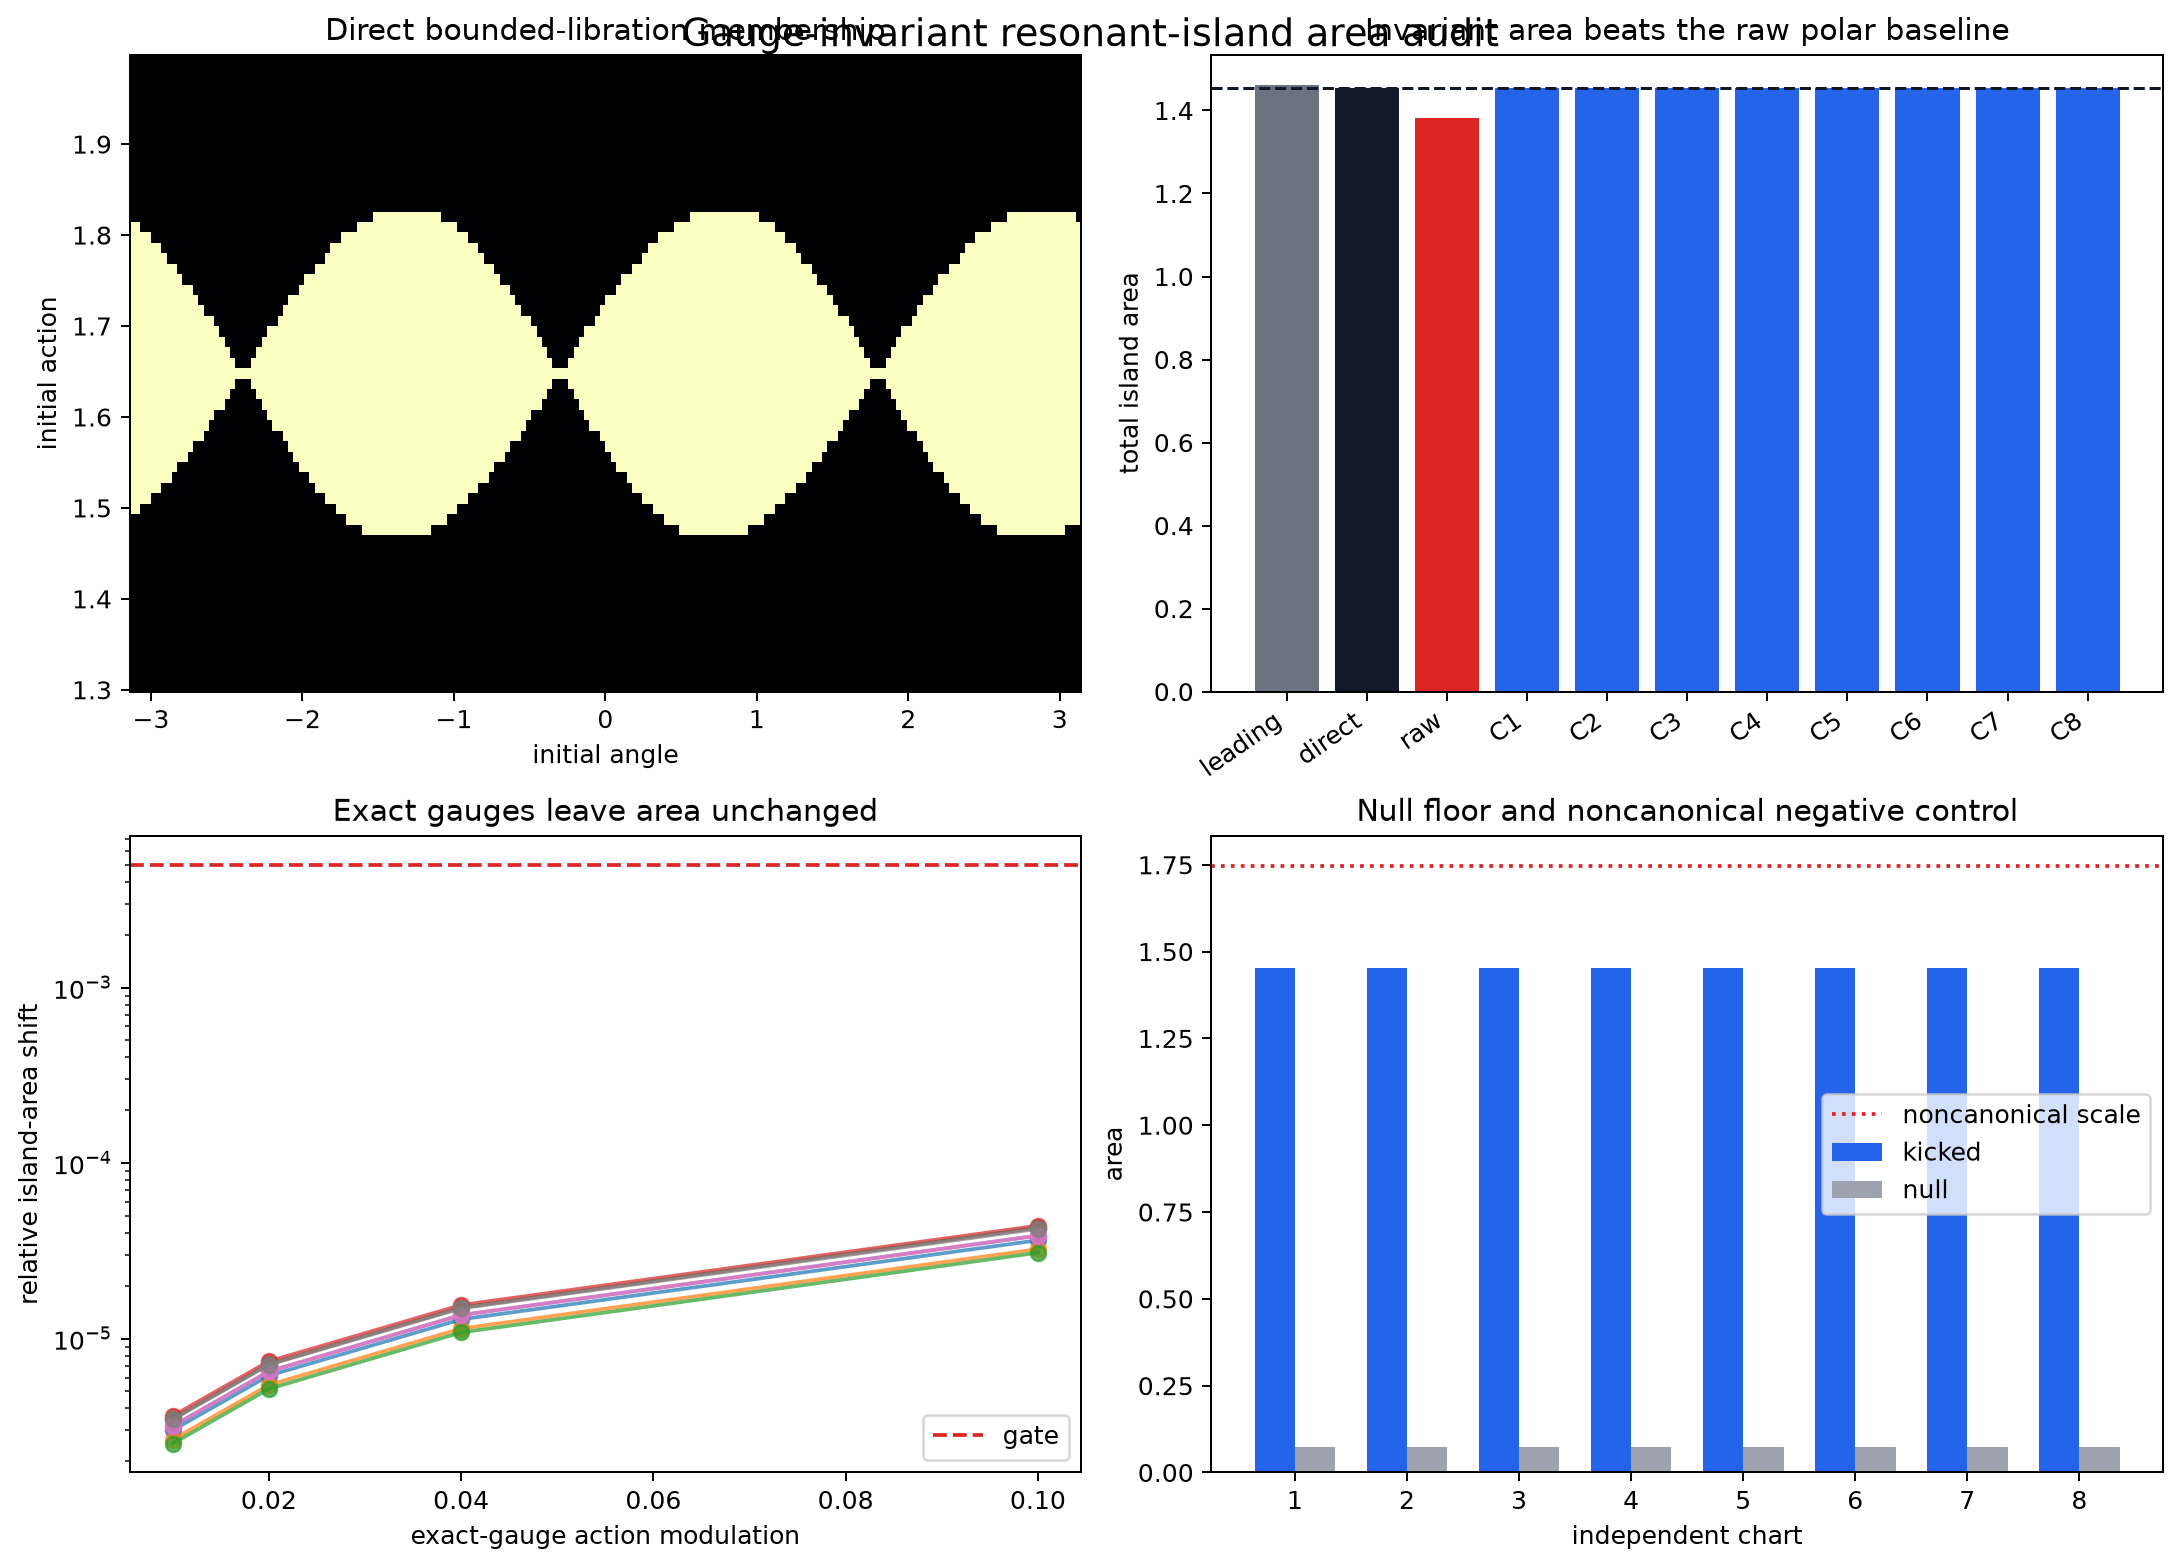
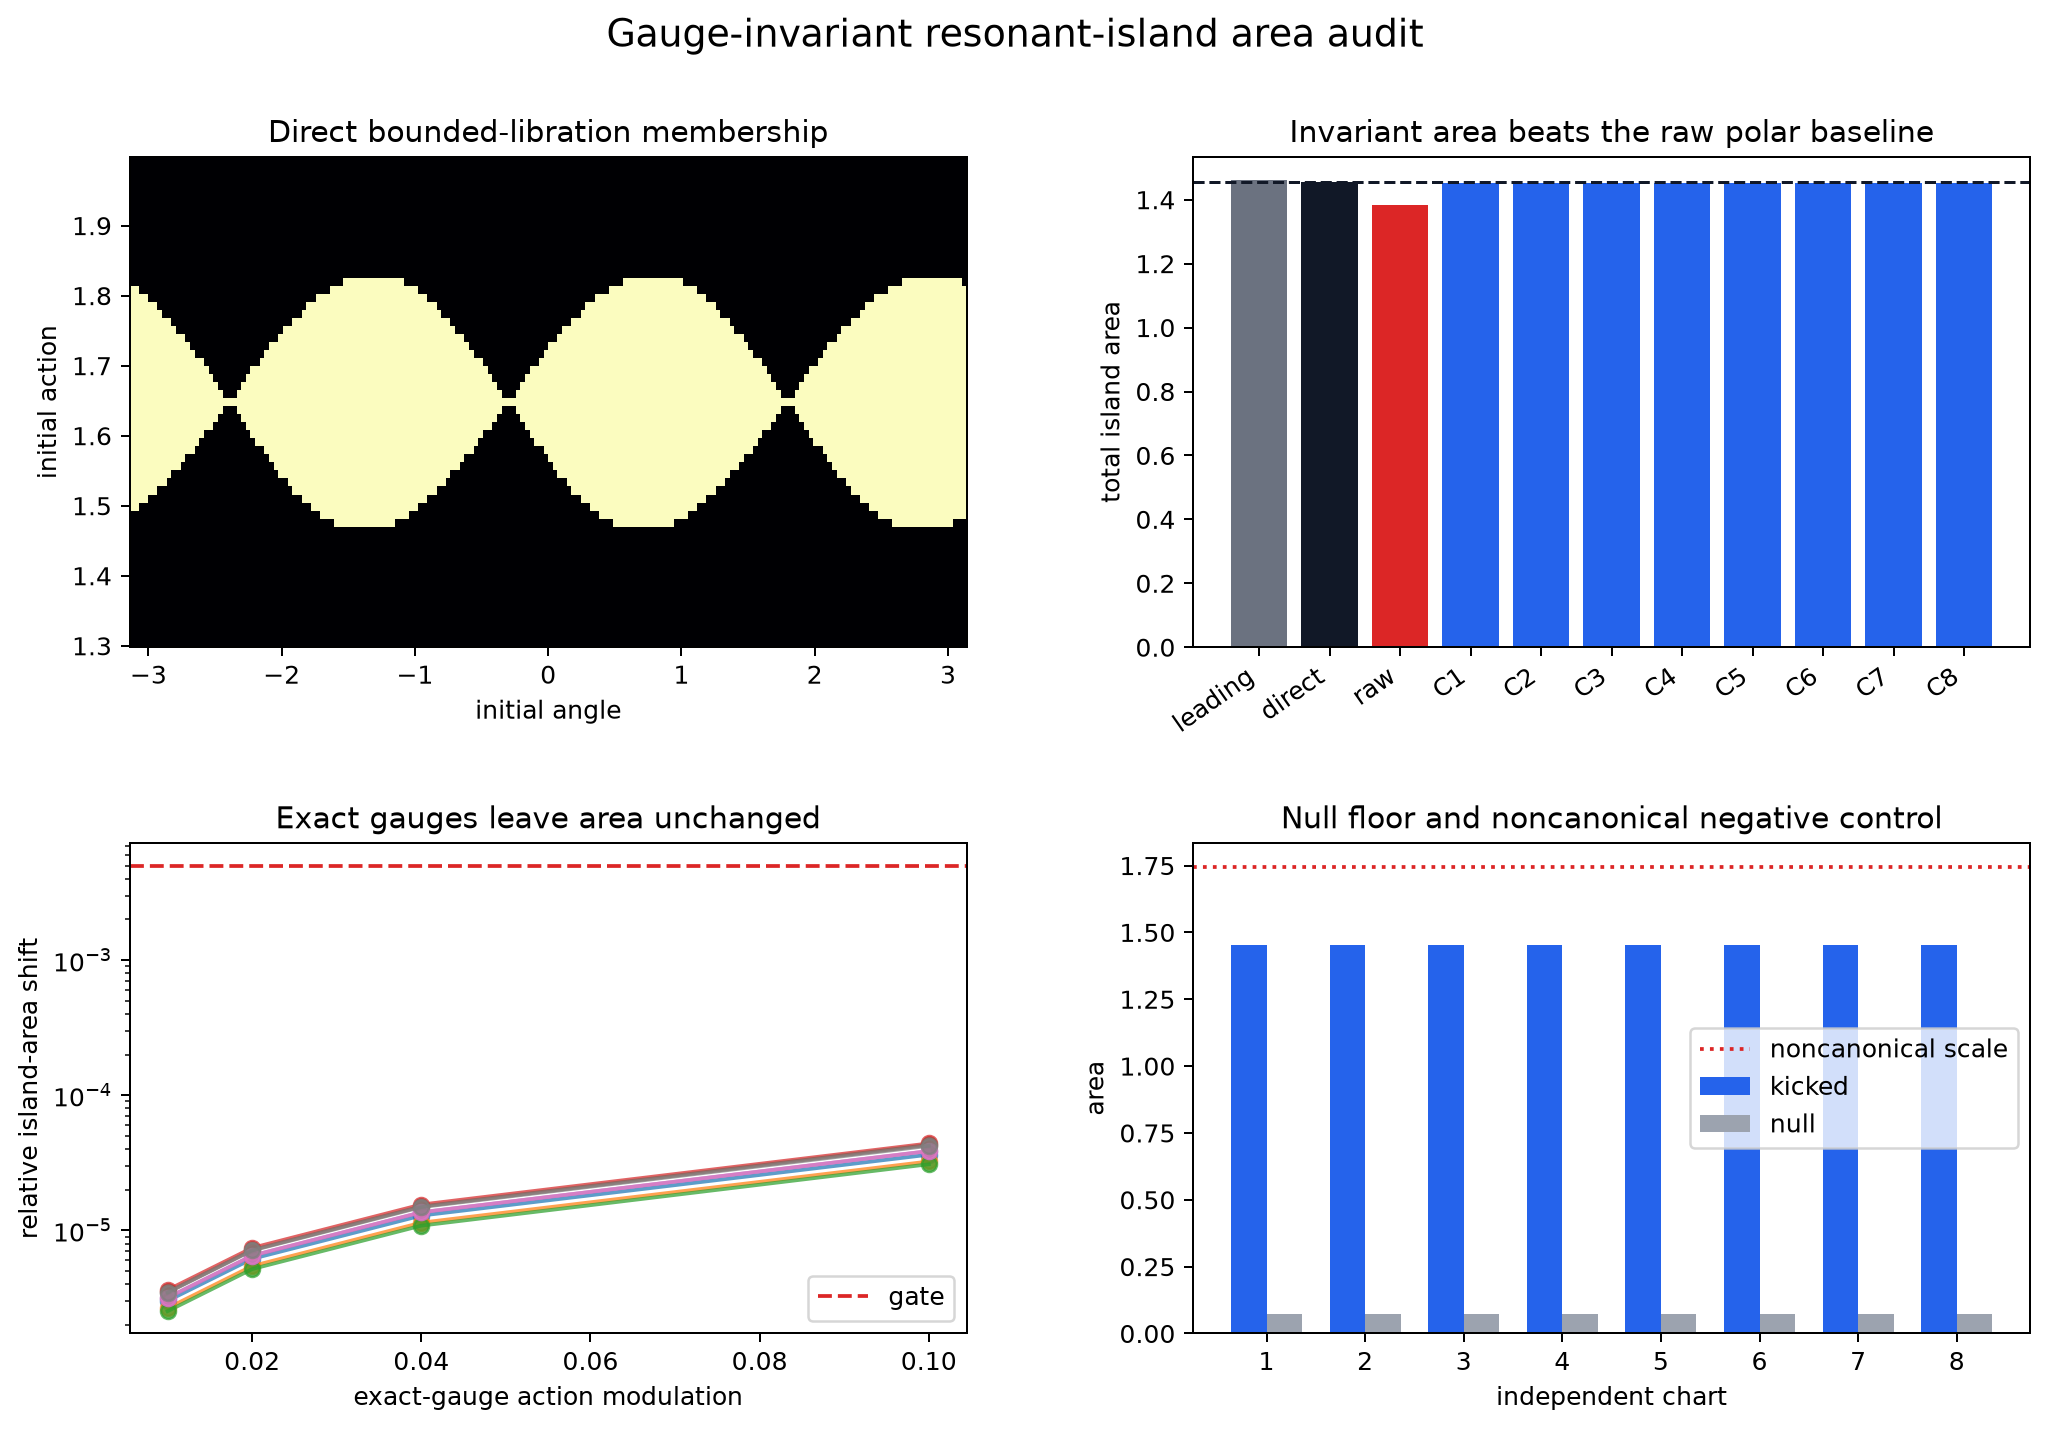
Recertify invariant area after Fable review

diff --git a/results/island-area-audit/report.html b/results/island-area-audit/report.html
@@ -18,9 +18,8 @@ code { background: #f3f4f6; padding: .1rem .25rem; }
 </head>
 <body>
 <h1>Gauge-invariant resonant-island area</h1>
-<p class="verdict"><strong>resolved_supported</strong> (gauge_invariant_island_area). On this frozen
-synthetic fixture, the coordinate-dependent resonant coefficient failed its
-exact-gauge test, while bounded-libration area survived it.</p>
+<p class="verdict"><strong>resolved_supported</strong> (gauge_invariant_island_area).
+On this frozen synthetic reference profile, the coordinate-dependent resonant coefficient failed its exact-gauge test, while bounded-libration area survived it.</p>
 <img src="overview.png"
 alt="Island-area membership, chart estimates, exact-gauge stress, and controls">
 <h2>What was measured</h2>
@@ -40,7 +39,8 @@ physical or learned canonical mesh, not from a fitted coefficient.</p>
 <td>4.955%</td></tr>
 <tr><td>learned-chart consensus</td>
 <td>1.453772</td>
-<td>0.082%</td></tr>
+<td>0.082% vs direct mesh</td></tr>
+<tr><td>direct physical/oracle refined mesh</td><td>1.460938</td><td>0.024% vs leading</td></tr>
 </table>
 <h2>Independent learned charts</h2>
 <table>
@@ -57,9 +57,11 @@ physical or learned canonical mesh, not from a fitted coefficient.</p>
 <h2>Adversarial controls</h2>
 <p>Maximum exact-gauge area shift:
 <strong>0.0044%</strong>.
-The deliberately noncanonical 1.2× area scale moved the answer by
+Exact-canonical area invariance is structural; the empirical content is that
+the learned winding membership and numerical quadrature also survive. The
+deliberately noncanonical 1.2× area-scaling plumbing check moved the answer by
 <strong>20.00%</strong>,
-so the audit is not simply insensitive to coordinate changes.</p>
+as it must by construction.</p>
 <table>
 <tr><th>gate</th><th>value</th><th>threshold</th><th>verdict</th></tr>
 <tr><td>direct_map_matches_leading_area</td><td>0.003850437023236711</td><td>&lt;= 0.03</td><td>pass</td></tr>
@@ -67,12 +69,14 @@ so the audit is not simply insensitive to coordinate changes.</p>
 <tr><td>every_chart_matches_direct_area</td><td>0.0008248895111526758</td><td>&lt;= 0.03</td><td>pass</td></tr>
 <tr><td>membership_matches_direct_topology</td><td>0.9991742361684558</td><td>&gt;= 0.98</td><td>pass</td></tr>
 <tr><td>exact_gauges_preserve_area</td><td>4.398410916543219e-05</td><td>&lt;= 0.005</td><td>pass</td></tr>
-<tr><td>null_area_stays_below_resolution_floor</td><td>0.04958669479000232</td><td>&lt;= 0.1</td><td>pass</td></tr>
-<tr><td>noncanonical_control_moves_area</td><td>0.20000000000000184</td><td>&gt;= 0.15</td><td>pass</td></tr>
+<tr><td>null_area_stays_within_resolution_fraction_ceiling</td><td>0.04958669479000232</td><td>&lt;= 0.1</td><td>pass</td></tr>
+<tr><td>noncanonical_area_scaling_plumbing</td><td>0.20000000000000184</td><td>&gt;= 0.15</td><td>pass</td></tr>
+<tr><td>learned_charts_preserve_domain_area</td><td>1.1968927316222883e-06</td><td>&lt;= 0.001</td><td>pass</td></tr>
+<tr><td>probe_mesh_within_model_support</td><td>True</td><td>all charts true</td><td>pass</td></tr>
 <tr><td>learned_chart_beats_raw_polar_baseline</td><td>0.0011980003246316873</td><td>&lt; 0.07208758736680676</td><td>pass</td></tr>
 </table>
 <h2>Claim boundary</h2>
-<p>On one noiseless synthetic kicked twist map and one fixed dense physical initial-condition mesh, bounded-libration area recovered from independently trained exact-symplectic charts agreed with direct physical/oracle area and survived the frozen exact-gauge ladder. The dense probe states were not used for chart training, but the protocol was developed on this fixture. This supports an invariant quotient on this retrospective fixture only; it does not establish prospective transfer, measured-system robustness, general transport recovery, calibrated uncertainty, or a theorem.</p>
+<p>On one noiseless synthetic kicked twist map and one fixed dense physical initial-condition mesh, bounded-libration area recovered from independently trained exact-symplectic charts agreed with direct physical/oracle area and survived the frozen exact-gauge ladder. The dense probe states were not used for chart training, but the protocol was developed on this fixture. Exact-gauge area preservation is structural; the empirical content is same-mesh winding membership and quadrature agreement. This supports an invariant quotient on this retrospective fixture only; it does not establish absolute continuum accuracy, prospective transfer, measured-system robustness, general transport recovery, calibrated uncertainty, or a theorem.</p>
 <p>The probe states were not used for chart training, but this was the
 method-development fixture. The frozen protocol still needs prospective
 confirmation on a second system.</p>
